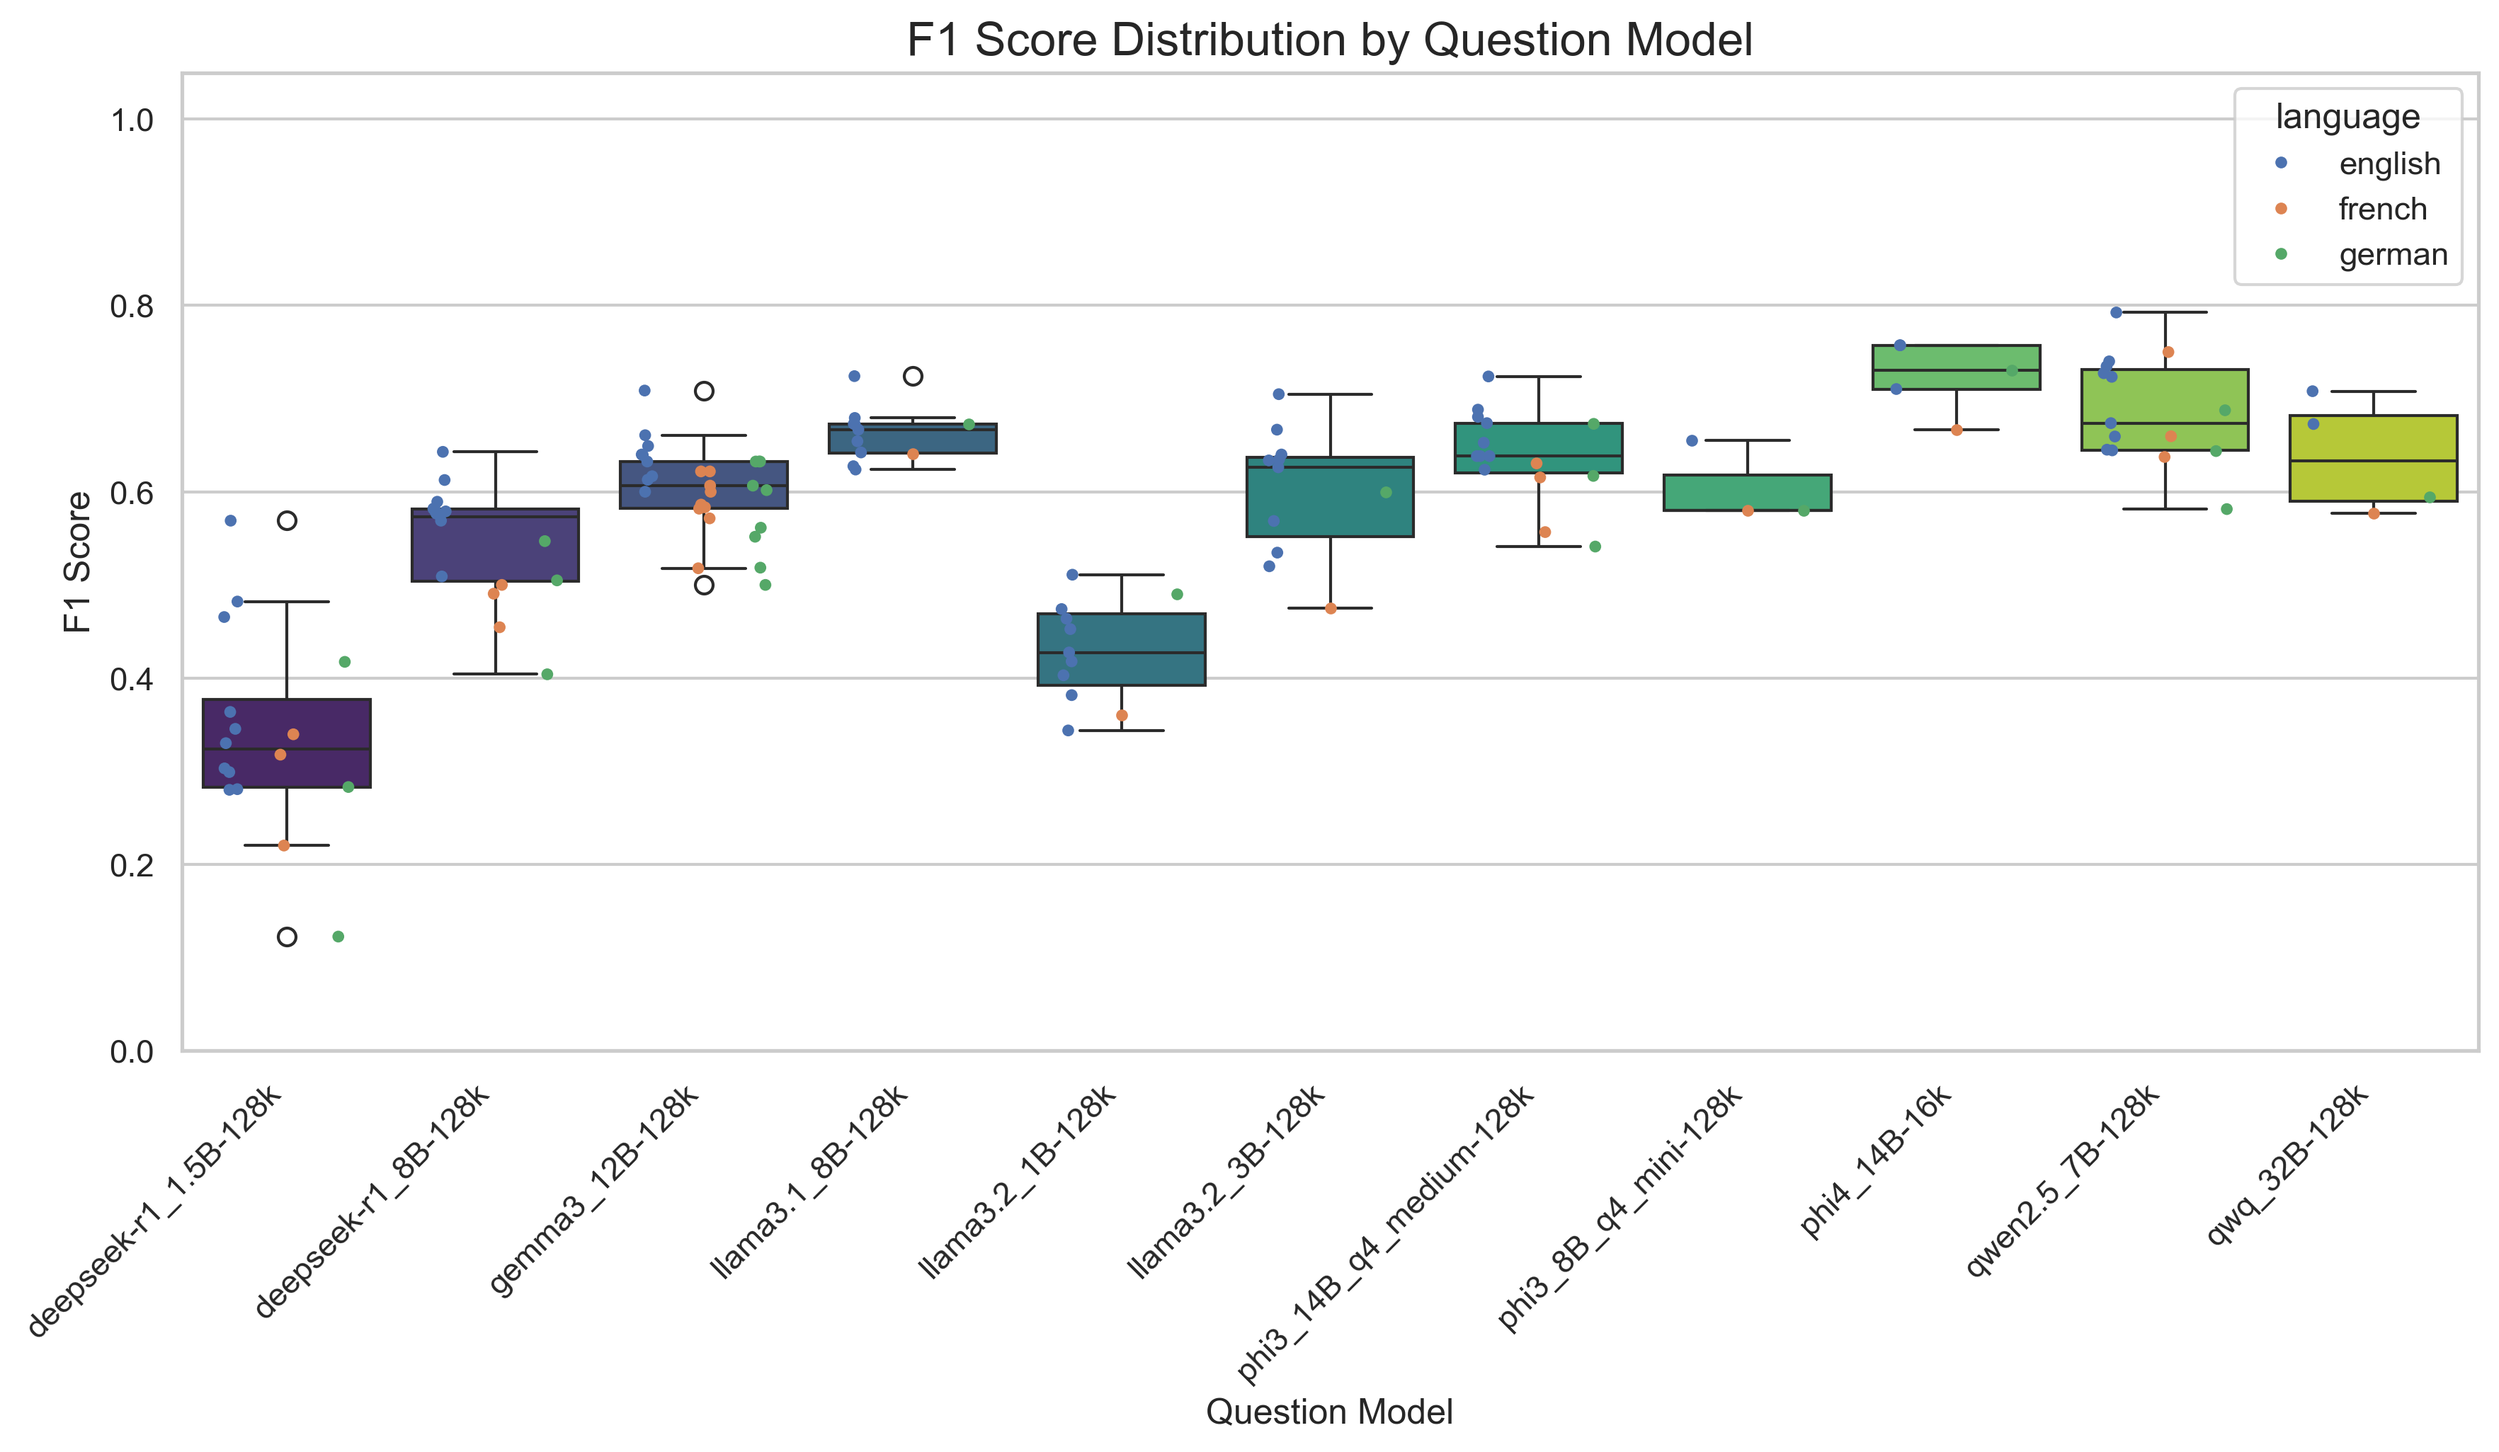
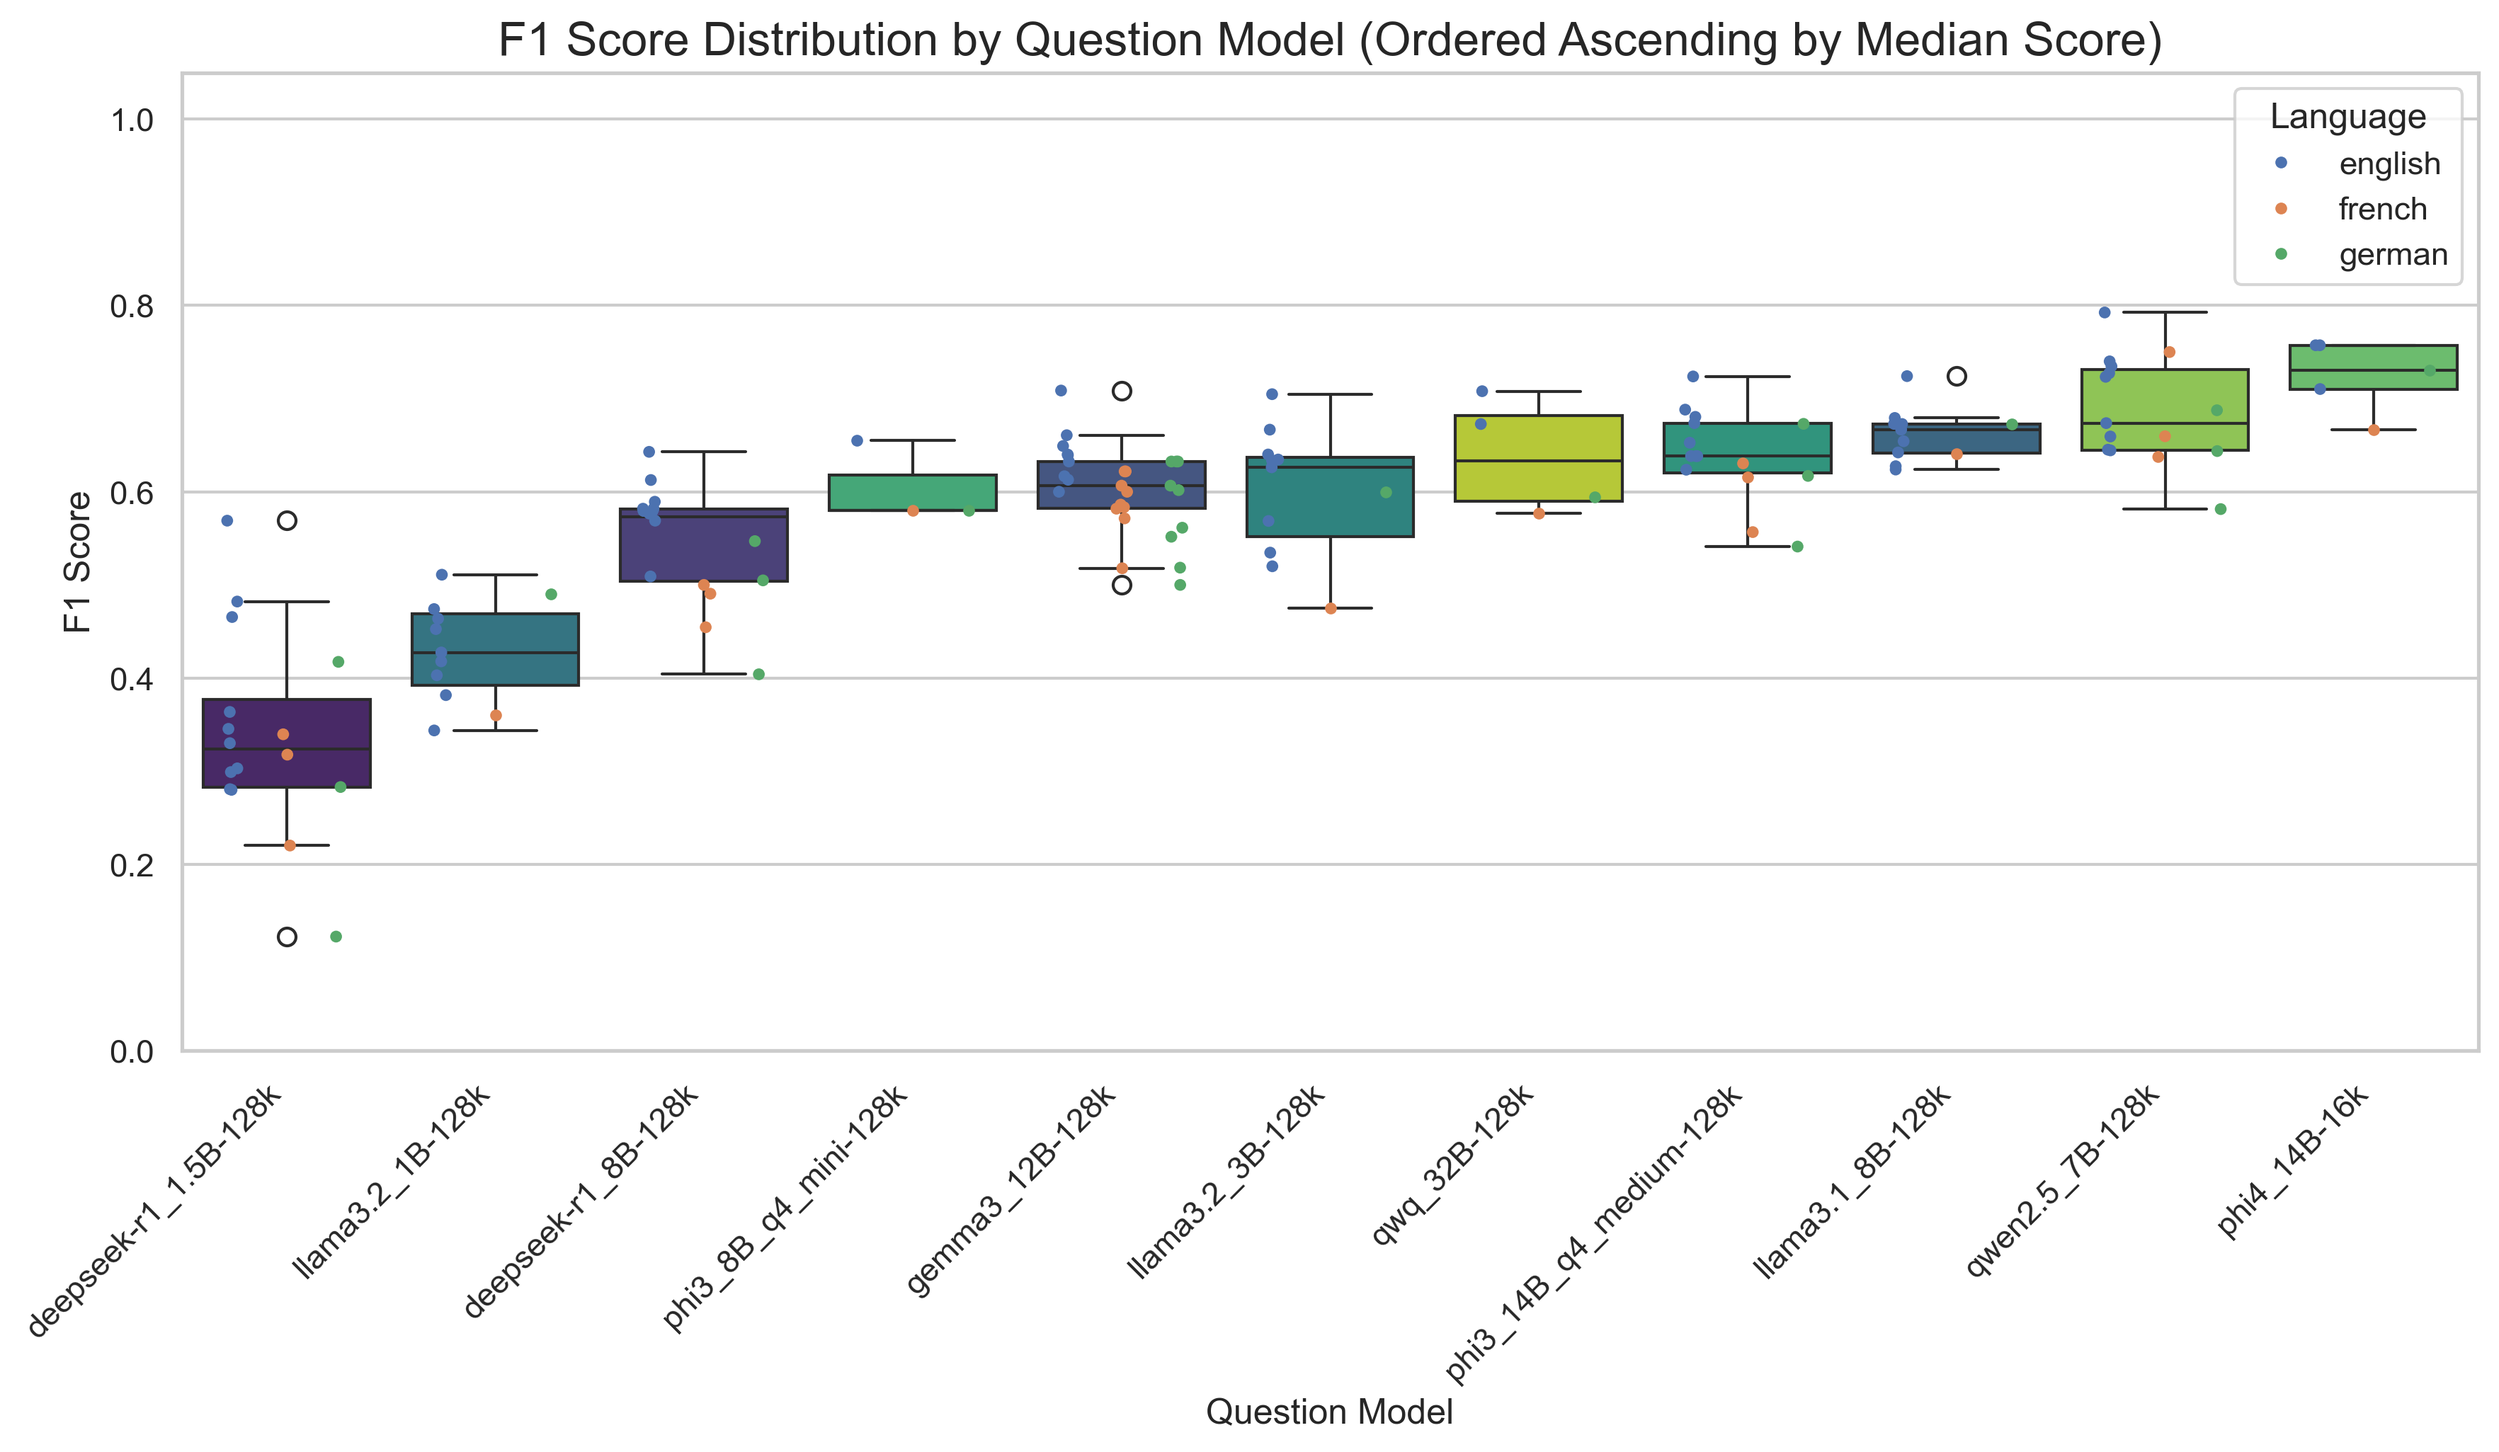
Enhance create_f1_boxplot function by adding sort_by_median_score parameter for ordering groups; update plot title to reflect sorting; improve error handling for group ordering.

diff --git a/RAG/visualization/plot_scripts/box_plots.py b/RAG/visualization/plot_scripts/box_plots.py
@@ -10,8 +10,9 @@ def create_f1_boxplot(
     group_by_column: str,
     output_path: str,
     score_column: str = 'f1_score',
-    hue_column: Optional[str] = None, # Added: Column to use for coloring points
-    hue_order: Optional[List[str]] = None, # Added: Order for hue levels (legend)
+    sort_by_median_score: bool = True, # New parameter: Control sorting
+    hue_column: Optional[str] = None,
+    hue_order: Optional[List[str]] = None,
     title: Optional[str] = None,
     xlabel: Optional[str] = None,
     ylabel: Optional[str] = None,
@@ -19,14 +20,19 @@ def create_f1_boxplot(
     figure_height: int = 7
 ):
     """
-    Creates a box plot of F1 scores grouped by a specified column.
-    Optionally colors individual points based on a hue column (e.g., language).
+    Creates a box plot of scores grouped by a specified column.
+    By default, groups are ordered by their median score in ascending order.
+    Optionally colors individual points based on a hue column.
 
     Args:
         data: Pandas DataFrame containing the data.
         group_by_column: The name of the column to group the data by (x-axis).
+                         The categories in this column will be ordered by median score.
         output_path: The full path where the plot image will be saved.
         score_column: The name of the column containing the scores to plot (y-axis).
+        sort_by_median_score: If True (default), order the groups on the x-axis
+                              by their median score (ascending). If False, use
+                              default ordering.
         hue_column: Optional name of the column to use for coloring individual points.
         hue_order: Optional list specifying the order of categories in the hue legend.
         title: Optional title for the plot.
@@ -59,21 +65,38 @@ def create_f1_boxplot(
     if output_dir: # Only create if output_path includes a directory part
         os.makedirs(output_dir, exist_ok=True)
 
+    # --- Determine order based on median score (optional) ---
+    ordered_groups = None # Default to no specific order
+    if sort_by_median_score:
+        try:
+            median_scores = data.groupby(group_by_column)[score_column].median()
+            # Sort the groups based on median score in ascending order
+            ordered_groups = median_scores.sort_values(ascending=True).index.tolist()
+            print(f"Ordering '{group_by_column}' by median '{score_column}' (ascending): {ordered_groups}")
+        except KeyError:
+            print(f"Warning: Could not group by '{group_by_column}' or find score column '{score_column}' for ordering. Plotting in default order.")
+        except Exception as e:
+             print(f"Warning: An error occurred during group ordering: {e}. Plotting in default order.")
+    else:
+        print(f"Plotting '{group_by_column}' in default order (sorting by score disabled).")
+    # --- End order calculation ---
+
+
     # Set plot style
     sns.set_theme(style="whitegrid")
 
     # Create the plot
     plt.figure(figsize=(figure_width, figure_height))
 
-    # Generate the boxplot - Simplified: Removed hue and legend from boxplot itself
+    # Generate the boxplot - Pass 'order' if calculated
     ax = sns.boxplot(
         x=group_by_column,
         y=score_column,
-        hue=group_by_column, # Assign x variable to hue
+        hue=group_by_column, # Assign x variable to hue for box colors
         data=data,
         palette="viridis",
-        # hue=group_by_column, # Removed: Not needed for the boxes themselves
-        # legend=False # Removed
+        order=ordered_groups, # Apply the calculated order (or None for default)
+        legend=False
     )
 
     # --- Add individual data points ---
@@ -84,6 +107,7 @@ def create_f1_boxplot(
         "size": 4,
         "jitter": True,
         "ax": ax,
+        "order": ordered_groups, # Apply the same order (or None) to stripplot
     }
 
     if use_hue:
@@ -117,7 +141,8 @@ def create_f1_boxplot(
     plt.xticks(rotation=45, ha='right') # Rotate labels for better readability
 
     # Set title and labels
-    plot_title = title or f'F1 Score Distribution by {group_by_column.replace("_", " ").title()}'
+    title_suffix = " (Ordered Ascending by Median Score)" if sort_by_median_score and ordered_groups else ""
+    plot_title = title or f'{score_column.replace("_", " ").title()} Distribution by {group_by_column.replace("_", " ").title()}{title_suffix}'
     x_axis_label = xlabel or group_by_column.replace("_", " ").title()
     y_axis_label = ylabel or score_column.replace("_", " ").title()
 
@@ -131,8 +156,13 @@ def create_f1_boxplot(
          # Example: Move legend outside plot area
          # ax.legend(title=hue_column.replace("_", " ").title(), bbox_to_anchor=(1.05, 1), loc='upper left')
          # Or let tight_layout try first
-         pass # Keep default legend placement for now
-
+         # Update legend title if hue is used
+         try:
+             current_legend = ax.get_legend()
+             if current_legend:
+                 current_legend.set_title(hue_column.replace("_", " ").title())
+         except AttributeError:
+             pass # No legend to modify
 
     plt.tight_layout() # Adjust layout to prevent labels overlapping
 
